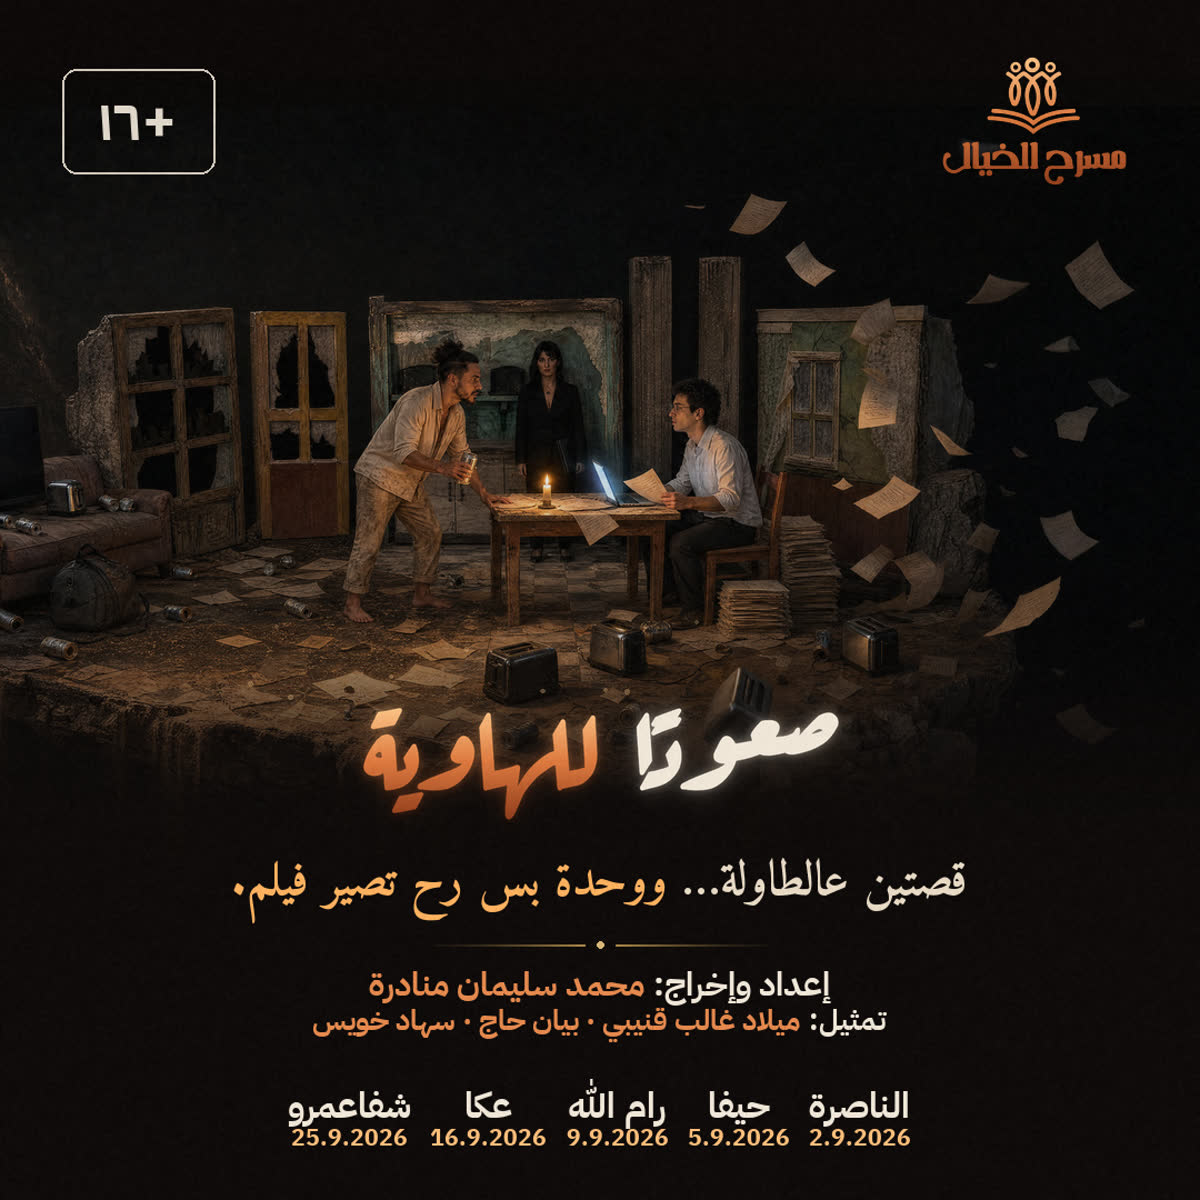
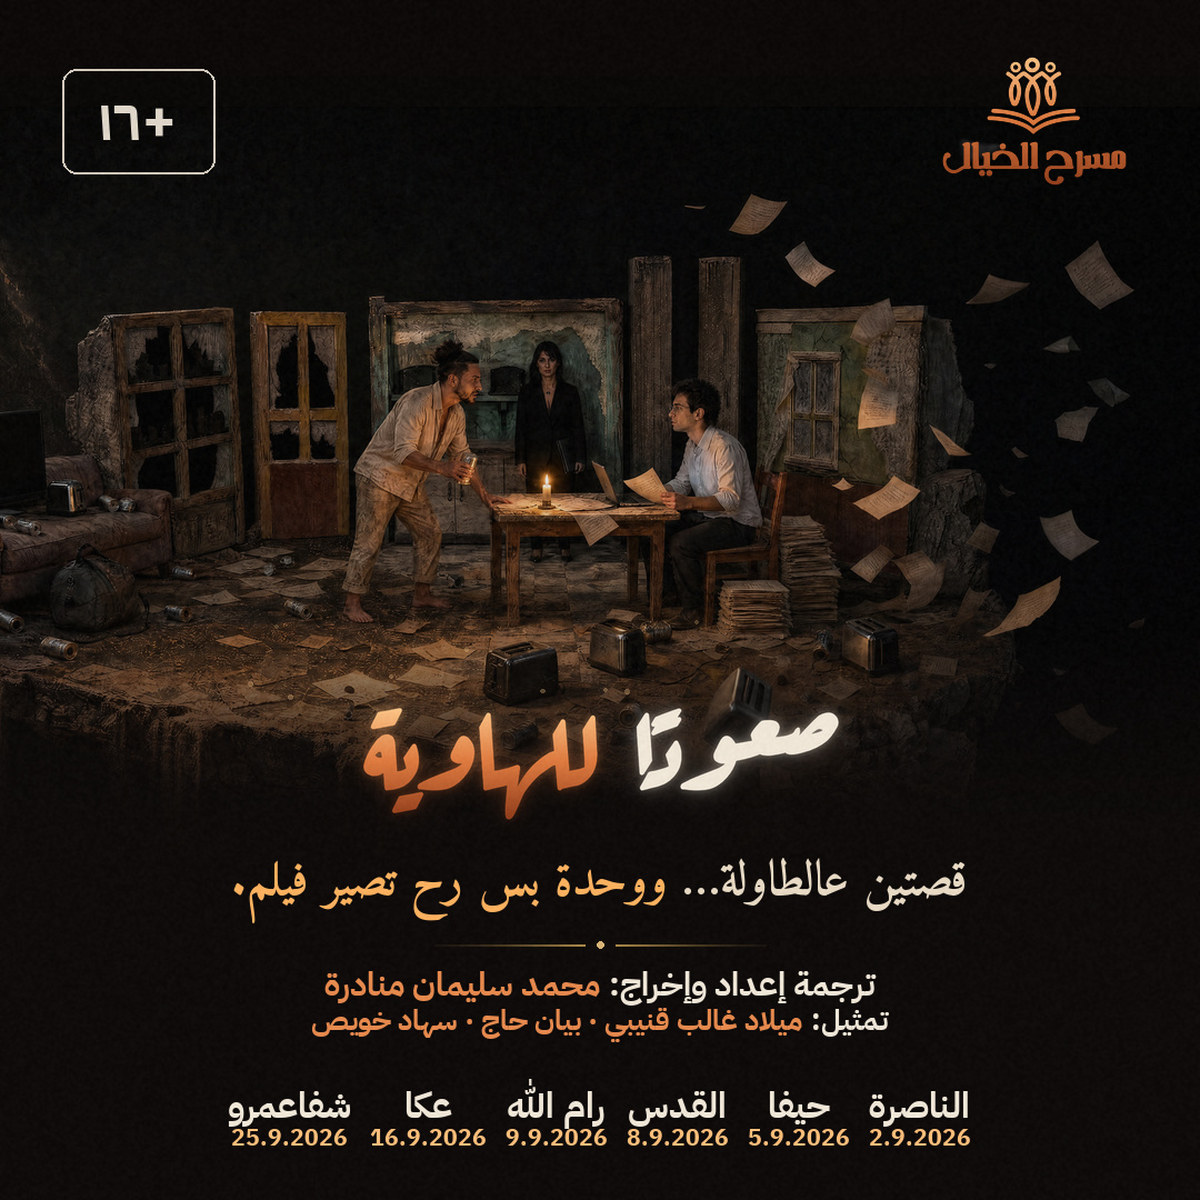
Add files via upload

diff --git a/index.html b/index.html
@@ -5,14 +5,20 @@
 <meta name="viewport" content="width=device-width, initial-scale=1">
 <meta name="theme-color" content="#231B15">
 <title>صعودًا للهاوية — العرض الأول 2.9.2026 وجولة بست مدن | مسرح الخيال، الناصرة</title>
-<meta name="description" content="صعودًا للهاوية — العرض الأول الأربعاء 2.9.2026 بالقصر الثقافي بالناصرة، والجولة: حيفا 5.9 · القدس 8.9 · رام الله 9.9 · عكا 16.9 · شفاعمرو 25.9. التذاكر أونلاين عبر تذكرتي. إعداد وإخراج محمد سليمان منادرة عن «True West» لسام شيبرد. قصتين عالطاولة… ووحدة بس رح تصير فيلم.">
+<meta name="description" content="صعودًا للهاوية — العرض الأول الأربعاء 2.9.2026 بالقصر الثقافي بالناصرة، والجولة: حيفا 5.9 · القدس 8.9 · رام الله 9.9 · عكا 16.9 · شفاعمرو 25.9. التذاكر أونلاين عبر تذكرتي. ترجمة إعداد وإخراج محمد سليمان منادرة عن «True West» لسام شيبرد. قصتين عالطاولة… ووحدة بس رح تصير فيلم.">
 <meta property="og:type" content="website">
 <meta property="og:url" content="https://elkhaialtheater.com/">
 <meta property="og:title" content="صعودًا للهاوية — التذاكر والمواعيد">
 <meta property="og:description" content="قصتين عالطاولة… ووحدة بس رح تصير فيلم. العرض الأول 2.9.2026 بالناصرة — والجولة: حيفا · القدس · رام الله · عكا · شفاعمرو. احجزوا تذاكركم أونلاين.">
-<meta property="og:image" content="https://elkhaialtheater.com/images/tour-og.jpg">
+<!-- ?v=7 ضروري: واتساب وفيسبوك بيخزّنوا صورة الرابط حسب الـURL، وبدونه بيضلّوا
+     يعرضوا القديمة حتى لو الملف تبدّل عالسيرفر. زيدي الرقم مع كل تحديث للصورة. -->
+<meta property="og:image" content="https://elkhaialtheater.com/images/tour-og.jpg?v=7">
+<meta property="og:image:width" content="1200">
+<meta property="og:image:height" content="1200">
+<meta property="og:image:alt" content="بوستر جولة صعودًا للهاوية — ست مدن من 2.9 لـ 25.9.2026">
 <meta property="og:locale" content="ar_AR">
 <meta name="twitter:card" content="summary_large_image">
+<meta name="twitter:image" content="https://elkhaialtheater.com/images/tour-og.jpg?v=7">
 <link rel="icon" href="images/logo.png">
 <!-- ?v=7 = كسر الكاش. الصورة اتبدّلت 2026-08-09 والمتصفحات بتضل تعرض القديمة بدونه.
      أي تبديل جاي للهيرو: زيدي الرقم بالأربع أماكن (هون + المصدرين + img). -->
@@ -22,12 +28,12 @@
 <link href="https://fonts.googleapis.com/css2?family=Aref+Ruqaa:wght@400;700&family=Amiri:ital,wght@0,400;0,700;1,400&family=IBM+Plex+Sans+Arabic:wght@400;500;700&family=IBM+Plex+Mono:wght@500;700&display=swap" rel="stylesheet">
 <script type="application/ld+json">
 [
-{"@context":"https://schema.org","@type":"TheaterEvent","name":"صعودًا للهاوية — العرض الأول، الناصرة","startDate":"2026-09-02T20:00:00+03:00","duration":"PT1H15M","eventStatus":"https://schema.org/EventScheduled","eventAttendanceMode":"https://schema.org/OfflineEventAttendanceMode","location":{"@type":"Place","name":"القصر الثقافي","address":{"@type":"PostalAddress","addressLocality":"الناصرة","addressCountry":"IL"}},"offers":{"@type":"Offer","url":"https://tzkrti.com/events/4424","price":"50","priceCurrency":"ILS","availability":"https://schema.org/InStock"},"organizer":{"@type":"Organization","name":"مسرح الخيال","url":"https://www.facebook.com/elkhaial.org/"},"inLanguage":"ar","typicalAgeRange":"16-","image":"https://elkhaialtheater.com/images/suudan-hero.jpg","description":"إعداد وإخراج محمد سليمان منادرة عن True West لسام شيبرد. قصتين عالطاولة… ووحدة بس رح تصير فيلم."},
-{"@context":"https://schema.org","@type":"TheaterEvent","name":"صعودًا للهاوية — حيفا","startDate":"2026-09-05T20:00:00+03:00","duration":"PT1H15M","eventStatus":"https://schema.org/EventScheduled","eventAttendanceMode":"https://schema.org/OfflineEventAttendanceMode","location":{"@type":"Place","name":"بيت الكرمة","address":{"@type":"PostalAddress","addressLocality":"حيفا","addressCountry":"IL"}},"offers":{"@type":"Offer","url":"https://tzkrti.com/events/4436","price":"50","priceCurrency":"ILS","availability":"https://schema.org/InStock"},"organizer":{"@type":"Organization","name":"مسرح الخيال","url":"https://www.facebook.com/elkhaial.org/"},"inLanguage":"ar","typicalAgeRange":"16-","image":"https://elkhaialtheater.com/images/suudan-hero.jpg","description":"إعداد وإخراج محمد سليمان منادرة عن True West لسام شيبرد. قصتين عالطاولة… ووحدة بس رح تصير فيلم."},
-{"@context":"https://schema.org","@type":"TheaterEvent","name":"صعودًا للهاوية — القدس","startDate":"2026-09-08T19:00:00+03:00","duration":"PT1H15M","eventStatus":"https://schema.org/EventScheduled","eventAttendanceMode":"https://schema.org/OfflineEventAttendanceMode","location":{"@type":"Place","name":"مسرح الحكواتي","address":{"@type":"PostalAddress","addressLocality":"القدس"}},"offers":{"@type":"Offer","url":"https://tzkrti.com/events/4448","price":"50","priceCurrency":"ILS","availability":"https://schema.org/InStock"},"organizer":{"@type":"Organization","name":"مسرح الخيال","url":"https://www.facebook.com/elkhaial.org/"},"inLanguage":"ar","typicalAgeRange":"16-","image":"https://elkhaialtheater.com/images/suudan-hero.jpg","description":"إعداد وإخراج محمد سليمان منادرة عن True West لسام شيبرد. قصتين عالطاولة… ووحدة بس رح تصير فيلم."},
-{"@context":"https://schema.org","@type":"TheaterEvent","name":"صعودًا للهاوية — رام الله","startDate":"2026-09-09T19:00:00+03:00","duration":"PT1H15M","eventStatus":"https://schema.org/EventScheduled","eventAttendanceMode":"https://schema.org/OfflineEventAttendanceMode","location":{"@type":"Place","name":"مسرح القصبة","address":{"@type":"PostalAddress","addressLocality":"رام الله","addressCountry":"PS"}},"offers":{"@type":"Offer","url":"https://tzkrti.com/events/4437","price":"40","priceCurrency":"ILS","availability":"https://schema.org/InStock"},"organizer":{"@type":"Organization","name":"مسرح الخيال","url":"https://www.facebook.com/elkhaial.org/"},"inLanguage":"ar","typicalAgeRange":"16-","image":"https://elkhaialtheater.com/images/suudan-hero.jpg","description":"إعداد وإخراج محمد سليمان منادرة عن True West لسام شيبرد. قصتين عالطاولة… ووحدة بس رح تصير فيلم."},
-{"@context":"https://schema.org","@type":"TheaterEvent","name":"صعودًا للهاوية — عكا","startDate":"2026-09-16T20:00:00+03:00","duration":"PT1H15M","eventStatus":"https://schema.org/EventScheduled","eventAttendanceMode":"https://schema.org/OfflineEventAttendanceMode","location":{"@type":"Place","name":"مسرح عكا","address":{"@type":"PostalAddress","addressLocality":"عكا","addressCountry":"IL"}},"offers":{"@type":"Offer","url":"https://tzkrti.com/events/4438","price":"50","priceCurrency":"ILS","availability":"https://schema.org/InStock"},"organizer":{"@type":"Organization","name":"مسرح الخيال","url":"https://www.facebook.com/elkhaial.org/"},"inLanguage":"ar","typicalAgeRange":"16-","image":"https://elkhaialtheater.com/images/suudan-hero.jpg","description":"إعداد وإخراج محمد سليمان منادرة عن True West لسام شيبرد. قصتين عالطاولة… ووحدة بس رح تصير فيلم."},
-{"@context":"https://schema.org","@type":"TheaterEvent","name":"صعودًا للهاوية — شفاعمرو","startDate":"2026-09-25T20:00:00+03:00","duration":"PT1H15M","eventStatus":"https://schema.org/EventScheduled","eventAttendanceMode":"https://schema.org/OfflineEventAttendanceMode","location":{"@type":"Place","name":"مسرح الأفق","address":{"@type":"PostalAddress","addressLocality":"شفاعمرو","addressCountry":"IL"}},"offers":{"@type":"Offer","url":"https://tzkrti.com/events/4439","price":"50","priceCurrency":"ILS","availability":"https://schema.org/InStock"},"organizer":{"@type":"Organization","name":"مسرح الخيال","url":"https://www.facebook.com/elkhaial.org/"},"inLanguage":"ar","typicalAgeRange":"16-","image":"https://elkhaialtheater.com/images/suudan-hero.jpg","description":"إعداد وإخراج محمد سليمان منادرة عن True West لسام شيبرد. قصتين عالطاولة… ووحدة بس رح تصير فيلم."}
+{"@context":"https://schema.org","@type":"TheaterEvent","name":"صعودًا للهاوية — العرض الأول، الناصرة","startDate":"2026-09-02T20:00:00+03:00","duration":"PT1H15M","eventStatus":"https://schema.org/EventScheduled","eventAttendanceMode":"https://schema.org/OfflineEventAttendanceMode","location":{"@type":"Place","name":"القصر الثقافي","address":{"@type":"PostalAddress","addressLocality":"الناصرة","addressCountry":"IL"}},"offers":{"@type":"Offer","url":"https://tzkrti.com/events/4424","price":"50","priceCurrency":"ILS","availability":"https://schema.org/InStock"},"organizer":{"@type":"Organization","name":"مسرح الخيال","url":"https://www.facebook.com/elkhaial.org/"},"inLanguage":"ar","typicalAgeRange":"16-","image":"https://elkhaialtheater.com/images/suudan-hero.jpg?v=7","description":"ترجمة إعداد وإخراج محمد سليمان منادرة عن True West لسام شيبرد. قصتين عالطاولة… ووحدة بس رح تصير فيلم."},
+{"@context":"https://schema.org","@type":"TheaterEvent","name":"صعودًا للهاوية — حيفا","startDate":"2026-09-05T20:00:00+03:00","duration":"PT1H15M","eventStatus":"https://schema.org/EventScheduled","eventAttendanceMode":"https://schema.org/OfflineEventAttendanceMode","location":{"@type":"Place","name":"بيت الكرمة","address":{"@type":"PostalAddress","addressLocality":"حيفا","addressCountry":"IL"}},"offers":{"@type":"Offer","url":"https://tzkrti.com/events/4436","price":"50","priceCurrency":"ILS","availability":"https://schema.org/InStock"},"organizer":{"@type":"Organization","name":"مسرح الخيال","url":"https://www.facebook.com/elkhaial.org/"},"inLanguage":"ar","typicalAgeRange":"16-","image":"https://elkhaialtheater.com/images/suudan-hero.jpg?v=7","description":"ترجمة إعداد وإخراج محمد سليمان منادرة عن True West لسام شيبرد. قصتين عالطاولة… ووحدة بس رح تصير فيلم."},
+{"@context":"https://schema.org","@type":"TheaterEvent","name":"صعودًا للهاوية — القدس","startDate":"2026-09-08T19:00:00+03:00","duration":"PT1H15M","eventStatus":"https://schema.org/EventScheduled","eventAttendanceMode":"https://schema.org/OfflineEventAttendanceMode","location":{"@type":"Place","name":"مسرح الحكواتي","address":{"@type":"PostalAddress","addressLocality":"القدس"}},"offers":{"@type":"Offer","url":"https://tzkrti.com/events/4448","price":"50","priceCurrency":"ILS","availability":"https://schema.org/InStock"},"organizer":{"@type":"Organization","name":"مسرح الخيال","url":"https://www.facebook.com/elkhaial.org/"},"inLanguage":"ar","typicalAgeRange":"16-","image":"https://elkhaialtheater.com/images/suudan-hero.jpg?v=7","description":"ترجمة إعداد وإخراج محمد سليمان منادرة عن True West لسام شيبرد. قصتين عالطاولة… ووحدة بس رح تصير فيلم."},
+{"@context":"https://schema.org","@type":"TheaterEvent","name":"صعودًا للهاوية — رام الله","startDate":"2026-09-09T19:00:00+03:00","duration":"PT1H15M","eventStatus":"https://schema.org/EventScheduled","eventAttendanceMode":"https://schema.org/OfflineEventAttendanceMode","location":{"@type":"Place","name":"مسرح القصبة","address":{"@type":"PostalAddress","addressLocality":"رام الله","addressCountry":"PS"}},"offers":{"@type":"Offer","url":"https://tzkrti.com/events/4437","price":"40","priceCurrency":"ILS","availability":"https://schema.org/InStock"},"organizer":{"@type":"Organization","name":"مسرح الخيال","url":"https://www.facebook.com/elkhaial.org/"},"inLanguage":"ar","typicalAgeRange":"16-","image":"https://elkhaialtheater.com/images/suudan-hero.jpg?v=7","description":"ترجمة إعداد وإخراج محمد سليمان منادرة عن True West لسام شيبرد. قصتين عالطاولة… ووحدة بس رح تصير فيلم."},
+{"@context":"https://schema.org","@type":"TheaterEvent","name":"صعودًا للهاوية — عكا","startDate":"2026-09-16T20:00:00+03:00","duration":"PT1H15M","eventStatus":"https://schema.org/EventScheduled","eventAttendanceMode":"https://schema.org/OfflineEventAttendanceMode","location":{"@type":"Place","name":"مسرح عكا","address":{"@type":"PostalAddress","addressLocality":"عكا","addressCountry":"IL"}},"offers":{"@type":"Offer","url":"https://tzkrti.com/events/4438","price":"50","priceCurrency":"ILS","availability":"https://schema.org/InStock"},"organizer":{"@type":"Organization","name":"مسرح الخيال","url":"https://www.facebook.com/elkhaial.org/"},"inLanguage":"ar","typicalAgeRange":"16-","image":"https://elkhaialtheater.com/images/suudan-hero.jpg?v=7","description":"ترجمة إعداد وإخراج محمد سليمان منادرة عن True West لسام شيبرد. قصتين عالطاولة… ووحدة بس رح تصير فيلم."},
+{"@context":"https://schema.org","@type":"TheaterEvent","name":"صعودًا للهاوية — شفاعمرو","startDate":"2026-09-25T20:00:00+03:00","duration":"PT1H15M","eventStatus":"https://schema.org/EventScheduled","eventAttendanceMode":"https://schema.org/OfflineEventAttendanceMode","location":{"@type":"Place","name":"مسرح الأفق","address":{"@type":"PostalAddress","addressLocality":"شفاعمرو","addressCountry":"IL"}},"offers":{"@type":"Offer","url":"https://tzkrti.com/events/4439","price":"50","priceCurrency":"ILS","availability":"https://schema.org/InStock"},"organizer":{"@type":"Organization","name":"مسرح الخيال","url":"https://www.facebook.com/elkhaial.org/"},"inLanguage":"ar","typicalAgeRange":"16-","image":"https://elkhaialtheater.com/images/suudan-hero.jpg?v=7","description":"ترجمة إعداد وإخراج محمد سليمان منادرة عن True West لسام شيبرد. قصتين عالطاولة… ووحدة بس رح تصير فيلم."}
 ]
 </script>
 <style>
@@ -676,7 +682,7 @@ footer{border-top:1px solid var(--hair);padding-block:42px;position:relative;z-i
         <h1><span class="up">صعودًا</span><span class="down">للهاوية</span></h1>
         <p class="tag" id="tag" aria-label="قصتين عالطاولة… ووحدة بس رح تصير فيلم."><span id="tagTxt"></span><span id="tagTxt2" class="warm"></span><span class="caret" id="tagCaret" aria-hidden="true">▍</span></p>
         <p class="cred h-in">
-          <span>إعداد وإخراج <b>محمد سليمان منادرة</b></span>
+          <span>ترجمة إعداد وإخراج <b>محمد سليمان منادرة</b></span>
           <span>عن <b class="tw" dir="ltr" style="display:inline-block">True West</b> لـ<b>سام شيبرد</b></span>
         </p>
         <div class="cta h-in">
@@ -912,7 +918,7 @@ footer{border-top:1px solid var(--hair);padding-block:42px;position:relative;z-i
       <div class="kick">الطاقم</div>
     </div>
     <dl class="crew rise">
-      <div><dt>إعداد وإخراج</dt><dd>محمد سليمان منادرة</dd></div>
+      <div><dt>ترجمة إعداد وإخراج</dt><dd>محمد سليمان منادرة</dd></div>
       <div><dt>عن نصّ</dt><dd><span class="tw" dir="ltr">True West</span> — سام شيبرد</dd></div>
       <div><dt>تمثيل</dt><dd>بيان حاج · ميلاد غالب قنيبي · سهاد خويص</dd></div>
       <div><dt>مديرة إنتاج</dt><dd>فاطمة خطيب</dd></div>
